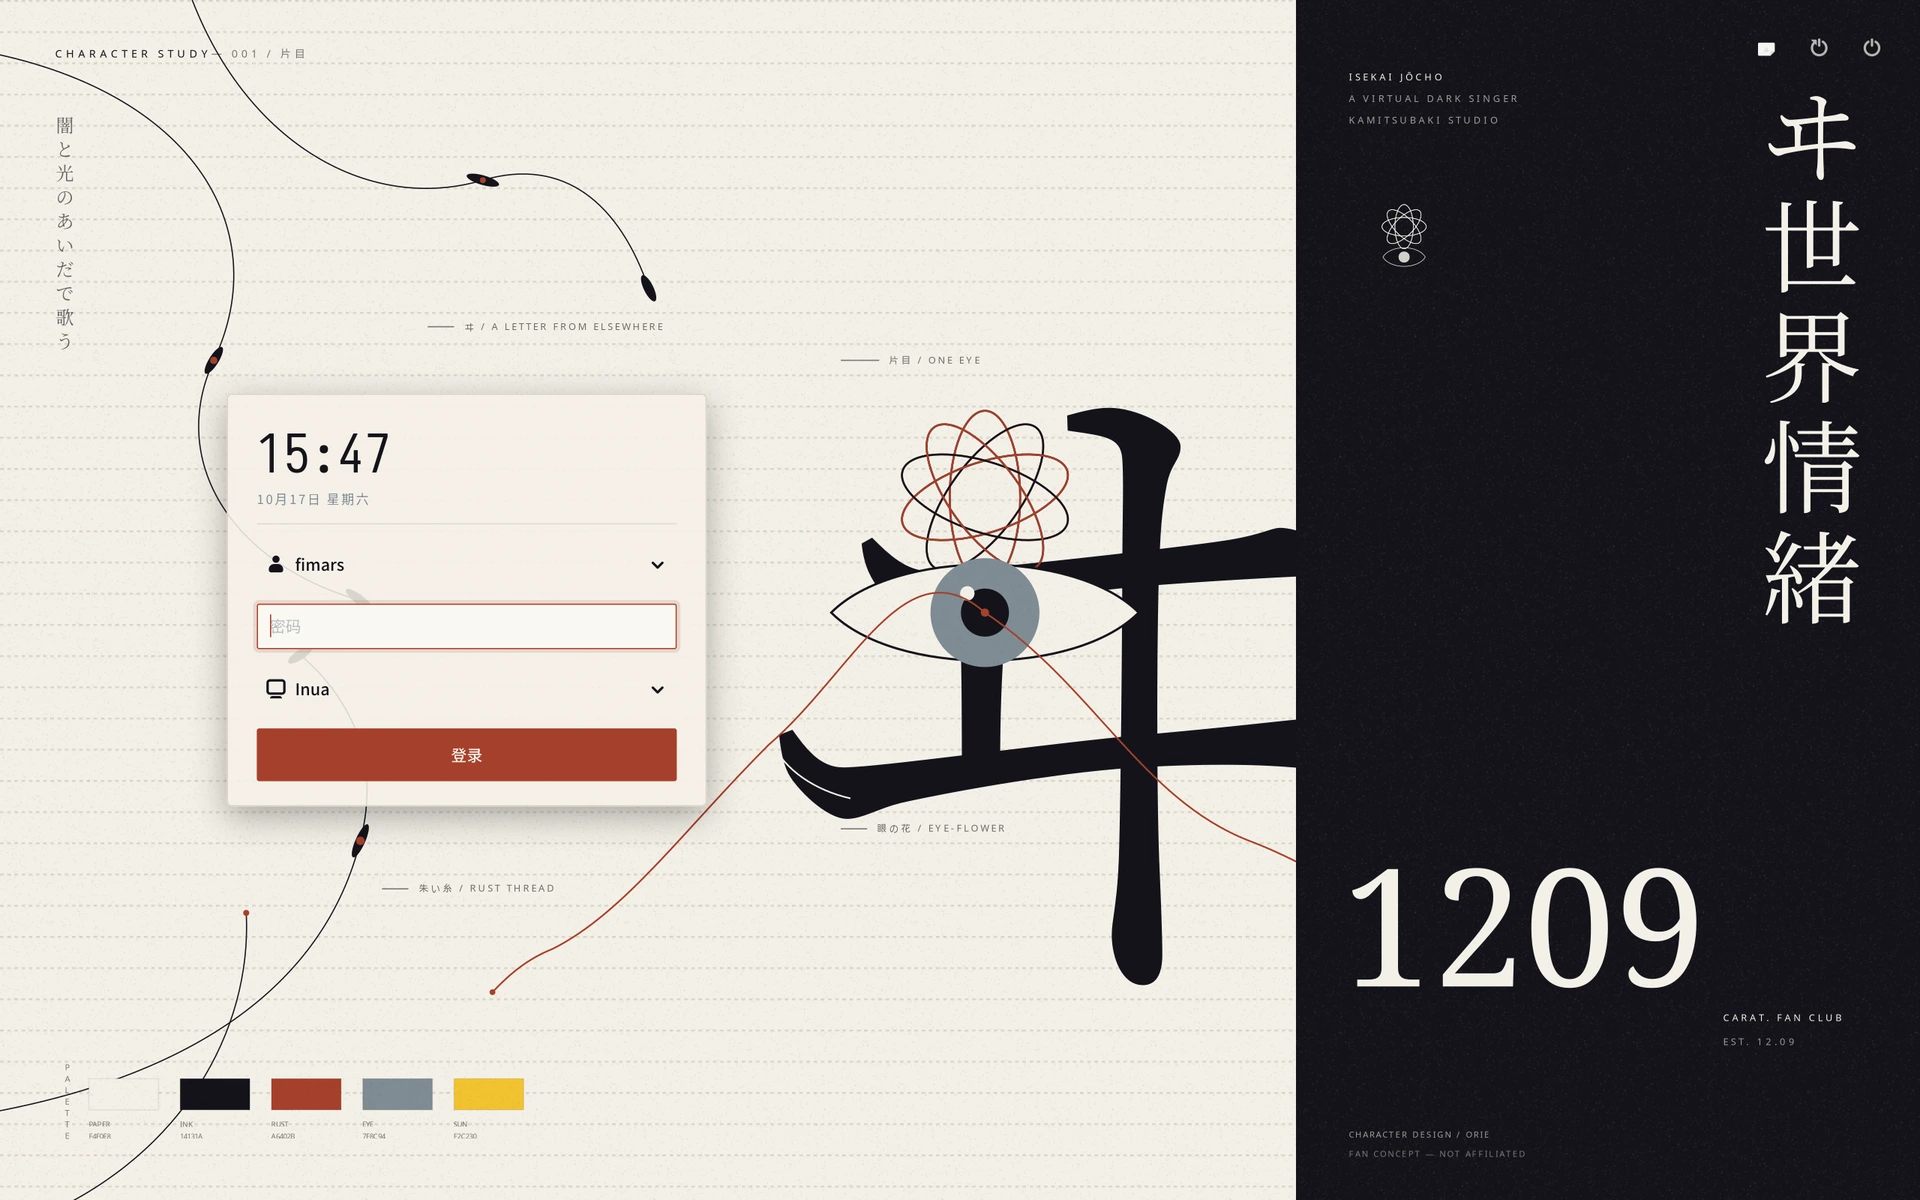
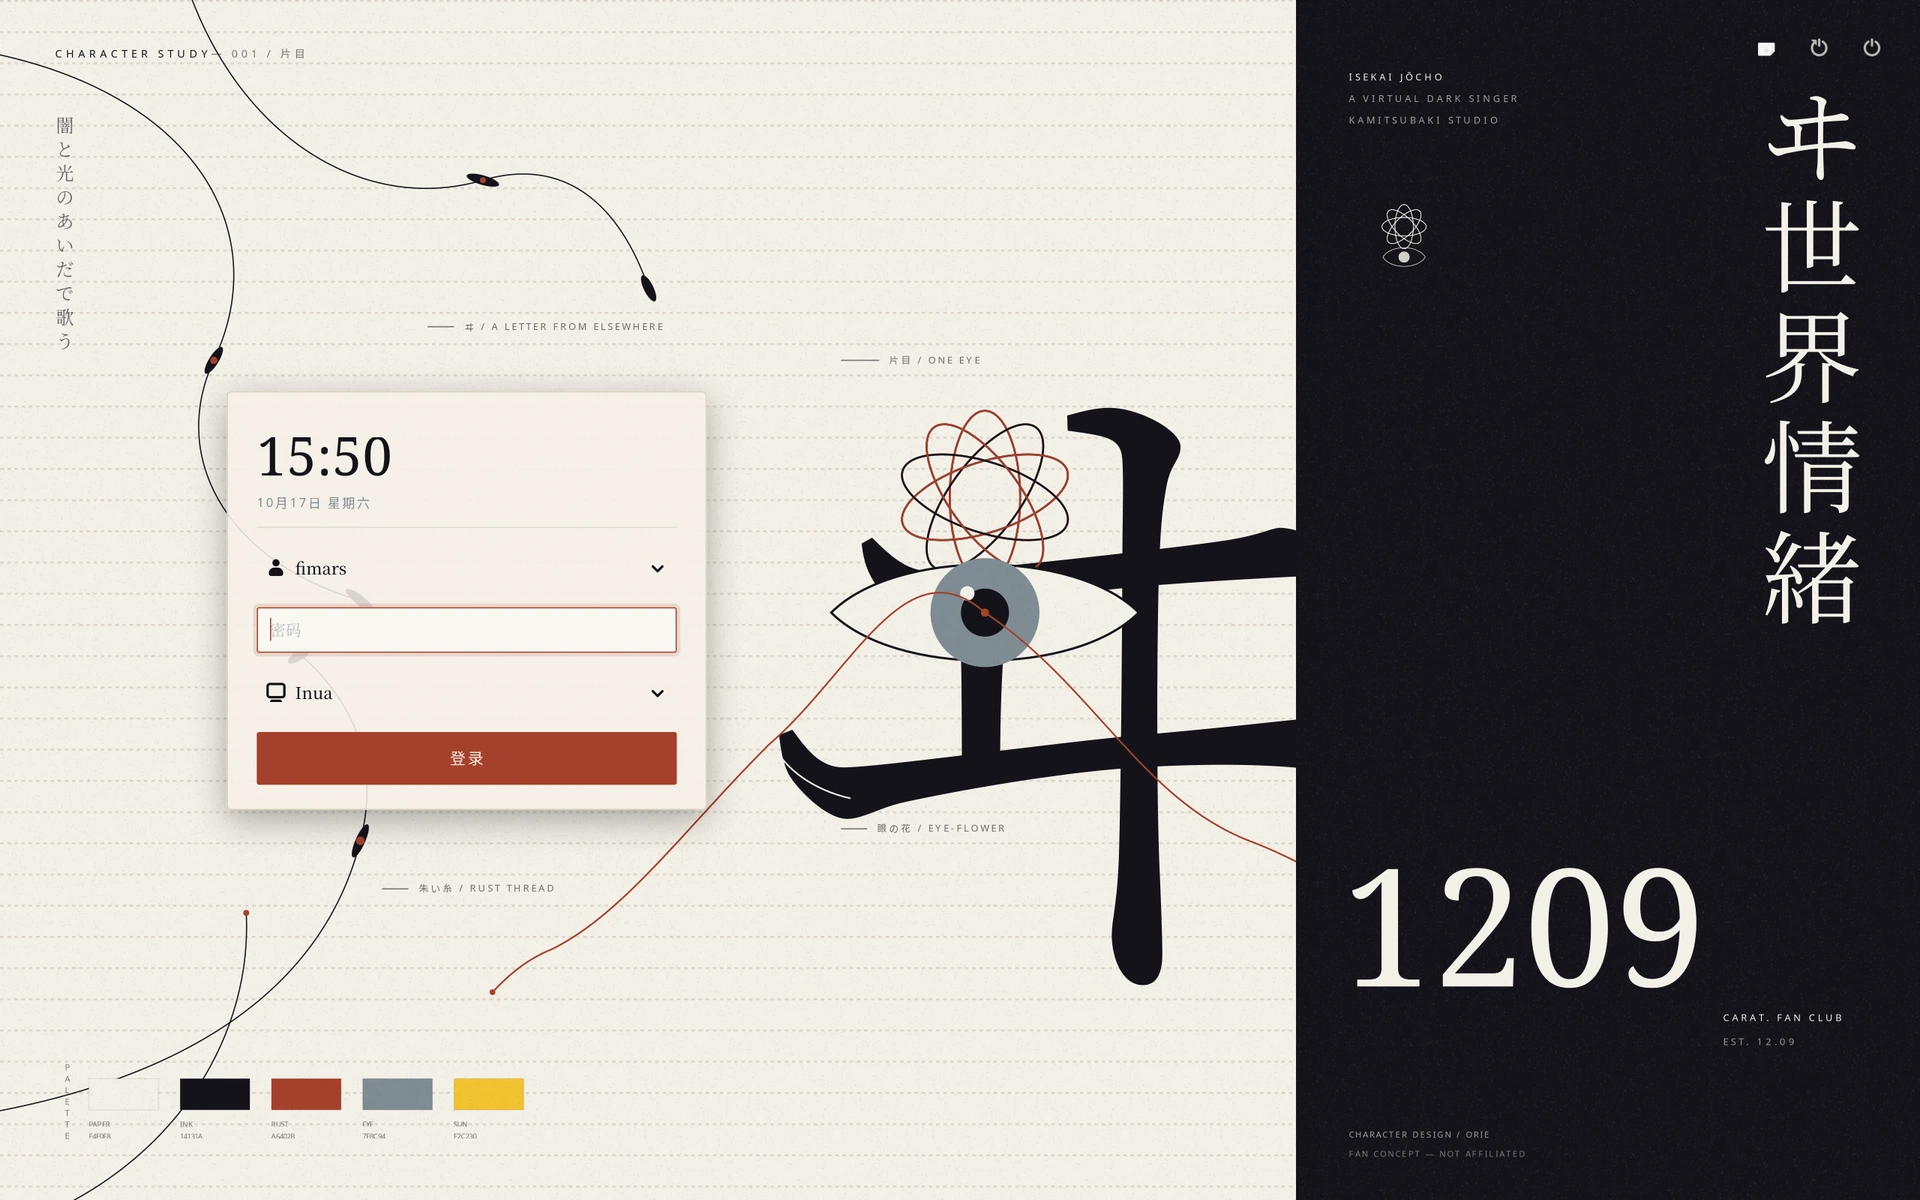
Set the isekai card in the concept's own type
The card was humanist sans and mono while the artwork is Mincho and
tracked grotesque, so it read as a form dropped onto the poster. The
isekai window now carries an "isekai" class; style.css gives the card
Mincho, the date and the button the poster's tracked grotesque, and the
clock serif figures. A font named in the settings still wins, and the
other themes keep inua's sans.

docs/isekai.webp is recaptured with the new type.

Changed region(s): [[0.125, 0.4625, 0.375, 0.6783], [0.125, 0.3392, 0.2188, 0.4317]]

diff --git a/assets/style.css b/assets/style.css
@@ -129,6 +129,20 @@ popover.greet-menu button.menu-item image.check { color: @accent; }
 
 /* The isekai theme's night panel (decor.go draws what is in it). */
 .isekai-night { background: @sb; }
+
+/* The isekai card is set as the concept's artwork is: Mincho for what it
+   says, the poster's tracked grotesque for the micro lines and the call
+   to action, serif figures for the clock. Other themes keep inua's
+   humanist sans. A font named in the settings still wins (see style.go). */
+window.greet.isekai { font-family: "Noto Serif CJK JP", "Noto Serif", serif; }
+window.greet.isekai .greet-time { font-family: "Noto Serif", "Noto Serif CJK JP", serif; }
+window.greet.isekai .greet-date { font-family: "Noto Sans", "Noto Sans CJK JP", sans-serif; }
+window.greet.isekai button.primary {
+  font-family: "Noto Sans", "Noto Sans CJK JP", sans-serif;
+  font-weight: 400;
+  text-transform: uppercase;
+  letter-spacing: 0.14em;
+}
 .isekai-power button.plain {
   min-width: 32px;
   min-height: 32px;

diff --git a/style.go b/style.go
@@ -55,12 +55,18 @@ func (g *greeter) themeCSS(name string) string {
 // then CJK, with the system's sans as the last resort.
 var builtinFont = []string{"Zen Kaku Gothic New", "Noto Sans CJK JP", "Noto Sans CJK SC"}
 
-// fontCSS overrides the window font when the settings name one.
+// fontCSS overrides the window font when the settings name one. The
+// isekai dress gives the card a face of its own (style.css), so the
+// setting is repeated for those selectors and stays the user's choice.
 func (g *greeter) fontCSS() string {
 	if g.cfg.Font == "" {
 		return ""
 	}
-	return fmt.Sprintf("window.greet { font-family: %s; }\n", fontStack(g.cfg.Font))
+	sel := "window.greet"
+	if g.isekai() {
+		sel += ", window.greet.isekai, window.greet.isekai .greet-time, window.greet.isekai .greet-date, window.greet.isekai button.primary"
+	}
+	return fmt.Sprintf("%s { font-family: %s; }\n", sel, fontStack(g.cfg.Font))
 }
 
 // fontStack is one family first, then the built-in stack.

diff --git a/ui.go b/ui.go
@@ -181,6 +181,8 @@ func (g *greeter) build() *gtk.ApplicationWindow {
 	}
 
 	if g.isekai() {
+		// The concept's type rules (style.css) hang off this class.
+		win.AddCssClass("isekai")
 		g.buildIsekai(win)
 	} else {
 		g.buildPlain(win)

diff --git a/README.md b/README.md
@@ -108,7 +108,10 @@ come from the theme it is based on. Copy one from the shell's
 `theme = "isekai"` is not a colour swap. It draws the greeter as a
 character study of ヰ世界情緒: paper and grain, the night panel on the
 right with the ヰ and the vertical title, vines and a rust thread, the
-eye-flower, the palette. The card sits on the paper, left of the mark.
+eye-flower, the palette. The card sits on the paper, left of the mark,
+and follows the concept's type: Mincho for what it says, the poster's
+tracked grotesque for the date and the call to action, serif figures for
+the clock — unless the settings name a font of their own.
 The composition is fimars's own drawing (`decor.go`), in the concept's
 1600 × 1000 units; `--demo --theme isekai` shows it at that size, and
 `--render FILE` draws it with no display at all.

diff --git a/README.zh_CN.md b/README.zh_CN.md
@@ -106,7 +106,9 @@ sudo systemctl stop sddm && sudo systemctl start greetd
 
 `theme = "isekai"` 不是换一套颜色那么简单。它把 greeter 画成一张
 关于 ヰ世界情緒 的角色研究：纸与颗粒，右侧的夜之面板与「ヰ」，藤蔓与
-朱红的线，眼之花，色板。卡片落在纸上、在「ヰ」的左边。构图是 fimars
+朱红的线，眼之花，色板。卡片落在纸上、在「ヰ」的左边，字体也随画面：
+姓名与输入用明朝体，日期与按钮用海报上那种拉开字距的无衬线，时钟用
+衬线数字（除非设置里指定了自己的字体）。构图是 fimars
 自己画的（`decor.go`），以概念的 1600 × 1000 为单位；
 `--demo --theme isekai` 按这个尺寸显示，`--render FILE` 则完全不需要
 显示器。

diff --git a/CONTRIBUTING.md b/CONTRIBUTING.md
@@ -90,7 +90,10 @@ sudo systemctl stop sddm && sudo systemctl start greetd
   (Isekaijoucho) of KAMITSUBAKI STUDIO. Keep the credit and the
   "not affiliated" line that `decor.go` draws and what `NOTICE` states;
   do not add official artwork, logos or fonts, and do not suggest
-  affiliation with the artist or the studio.
+  affiliation with the artist or the studio. The card's type is part
+  of the dress: the rules live in `assets/style.css` under
+  `window.greet.isekai`, and a font named in the settings still wins
+  (`style.go`).
 - **The greeter user sees almost nothing.** It runs as `greetd` and can
   read `/etc/passwd` and `/usr/share/wayland-sessions` — not the user's
   home. A picture, font or theme from a home directory is a bug.

diff --git a/CHANGELOG.md b/CHANGELOG.md
@@ -31,8 +31,8 @@ unchanged.
 - The `isekai` theme's composition, drawn with cairo in the concept's
   own units: paper grain, the night panel, the ヰ, vines and the rust
   thread, the eye-flower, vertical writing, micro labels and the
-  palette. A fan tribute to ヰ世界情緒; the credit and the fan-concept
-  note are in `NOTICE`.
+  palette, with the card set in the concept's own type. A fan tribute
+  to ヰ世界情緒; the credit and the fan-concept note are in `NOTICE`.
 - Settings in `/etc/joucho/config.toml`, defaults from
   `assets/config.toml`, and custom themes at
   `/etc/joucho/themes/NAME.css`.
